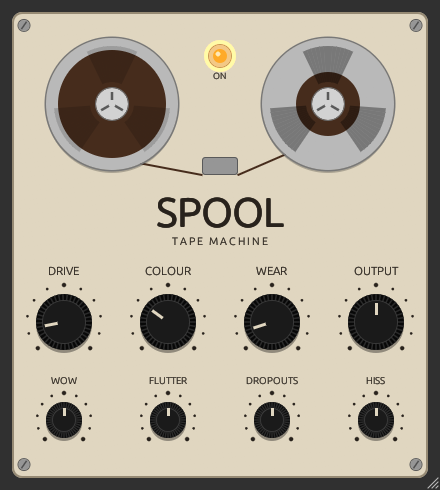
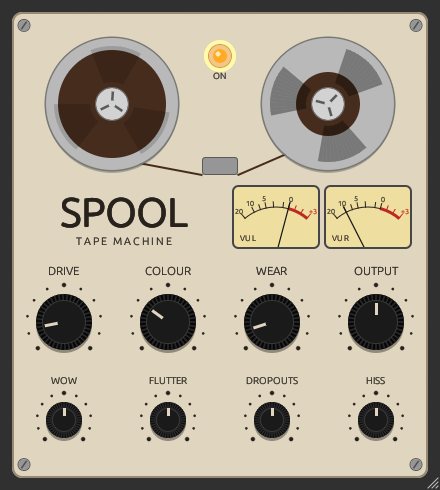
Add VU meters and spinning reels

Changed region(s): [[0.1182, 0.3673, 0.9455, 0.5204], [0.5909, 0.0918, 0.8864, 0.3367], [0.2364, 0.1837, 0.2659, 0.2143]]

diff --git a/src/editor.rs b/src/editor.rs
@@ -1,6 +1,7 @@
-//! Reel-to-reel style editor: a cream faceplate with two reels and four knobs, painted by hand.
+//! Reel-to-reel style editor: a cream faceplate with spinning reels, VU meters and knobs, painted
+//! by hand.
 
-use crate::SpoolParams;
+use crate::{Meters, SpoolParams};
 use nih_plug::prelude::*;
 use nih_plug_egui::egui::{
     self, emath::TSTransform, Align2, Color32, FontId, Painter, Pos2, Rect, Sense, Stroke,
@@ -20,12 +21,27 @@ const INK: Color32 = Color32::from_rgb(40, 34, 28);
 const FACEPLATE: Color32 = Color32::from_rgb(224, 214, 192);
 const TAPE: Color32 = Color32::from_rgb(70, 44, 28);
 
-pub fn create(params: Arc<SpoolParams>) -> Option<Box<dyn Editor>> {
+const REEL_RADIUS: f32 = 66.0;
+const SUPPLY_PACK: f32 = 54.0;
+const TAKEUP_PACK: f32 = 32.0;
+/// Tape speed in design pixels per second; each reel turns at this over its pack radius
+const TAPE_SPEED: f32 = 40.0;
+/// Both reels look the same every third of a turn, so the tape position wraps here without a jump
+const TAPE_WRAP: f32 = TAU / 3.0 * SUPPLY_PACK * TAKEUP_PACK;
+
+/// VU needle swing either side of straight up, in radians
+const VU_SWING: f32 = 0.7;
+const VU_MIN: f32 = -20.0;
+const VU_MAX: f32 = 3.0;
+
+pub fn create(params: Arc<SpoolParams>, meters: Arc<Meters>) -> Option<Box<dyn Editor>> {
     create_egui_editor(
         params.editor_state.clone(),
         (),
         |_, _| {},
         move |ctx, setter, _| {
+            // The meters and reels move without input, so redraw every frame
+            ctx.request_repaint();
             ResizableWindow::new("resize")
                 .min_size(DESIGN.size() / 2.0)
                 .show(ctx, &params.editor_state, |ui| {
@@ -43,14 +59,14 @@ pub fn create(params: Arc<SpoolParams>) -> Option<Box<dyn Editor>> {
                     ctx.set_transform_layer(layer, TSTransform::new(offset, scale));
                     ui.scope_builder(UiBuilder::new().layer_id(layer).max_rect(DESIGN), |ui| {
                         ui.set_clip_rect(DESIGN);
-                        deck(ui, setter, &params);
+                        deck(ui, setter, &params, &meters);
                     });
                 });
         },
     )
 }
 
-fn deck(ui: &Ui, setter: &ParamSetter, params: &SpoolParams) {
+fn deck(ui: &Ui, setter: &ParamSetter, params: &SpoolParams, meters: &Meters) {
     let body = ui.max_rect().shrink(12.0);
     let p = ui.painter();
     p.rect_filled(body, 10.0, FACEPLATE);
@@ -78,10 +94,26 @@ fn deck(ui: &Ui, setter: &ParamSetter, params: &SpoolParams) {
         Vec2::new(36.0, 18.0),
     );
     let tape = Stroke::new(2.0_f32, TAPE);
-    p.line_segment([supply + Vec2::new(0.0, 54.0), head.left_bottom()], tape);
-    p.line_segment([head.right_bottom(), takeup + Vec2::new(0.0, 32.0)], tape);
-    reel(p, supply, 54.0);
-    reel(p, takeup, 32.0);
+    p.line_segment(
+        [supply + Vec2::new(0.0, SUPPLY_PACK), head.left_bottom()],
+        tape,
+    );
+    p.line_segment(
+        [head.right_bottom(), takeup + Vec2::new(0.0, TAKEUP_PACK)],
+        tape,
+    );
+
+    // Tape position, advanced while the host plays. Tape leaves the bottom of the supply reel
+    // heading right, so both reels turn anticlockwise.
+    let travel_id = ui.id().with("tape-travel");
+    let mut travel: f32 = ui.data(|d| d.get_temp(travel_id)).unwrap_or(0.0);
+    if meters.running() {
+        let dt = ui.input(|i| i.stable_dt).min(0.1);
+        travel = (travel + TAPE_SPEED * dt) % TAPE_WRAP;
+        ui.data_mut(|d| d.insert_temp(travel_id, travel));
+    }
+    reel(p, supply, SUPPLY_PACK, -travel / SUPPLY_PACK);
+    reel(p, takeup, TAKEUP_PACK, -travel / TAKEUP_PACK);
     p.rect_filled(head, 3.0, Color32::from_gray(150));
     p.rect_stroke(
         head,
@@ -97,7 +129,7 @@ fn deck(ui: &Ui, setter: &ParamSetter, params: &SpoolParams) {
         Pos2::new(body.center().x, body.top() + 44.0),
     );
 
-    let logo = Pos2::new(body.center().x, body.top() + 200.0);
+    let logo = Pos2::new(body.left() + 112.0, body.top() + 200.0);
     // The default font has no bold weight, so fake one by overdrawing
     for offset in [
         Vec2::ZERO,
@@ -121,6 +153,12 @@ fn deck(ui: &Ui, setter: &ParamSetter, params: &SpoolParams) {
         INK,
     );
 
+    for (i, label) in ["L", "R"].into_iter().enumerate() {
+        let x = body.right() - 152.0 + 92.0 * i as f32;
+        let rect = Rect::from_center_size(Pos2::new(x, body.top() + 205.0), Vec2::new(84.0, 60.0));
+        vu_meter(p, rect, meters.vu(i), label);
+    }
+
     // Main controls, then the trims for each part of Wear underneath
     let rows = [
         (
@@ -142,8 +180,78 @@ fn deck(ui: &Ui, setter: &ParamSetter, params: &SpoolParams) {
     }
 }
 
-fn reel(p: &Painter, center: Pos2, pack: f32) {
-    const RADIUS: f32 = 66.0;
+/// Position of the needle across the scale, 0..1. VU scales are linear in voltage, not dB.
+fn vu_position(db: f32) -> f32 {
+    let gain = |db: f32| 10f32.powf(db / 20.0);
+    // Let it pin a little past +3 like a real meter
+    ((gain(db) - gain(VU_MIN)) / (gain(VU_MAX) - gain(VU_MIN))).clamp(0.0, 1.05)
+}
+
+fn vu_meter(p: &Painter, rect: Rect, db: f32, label: &str) {
+    p.rect_filled(rect, 4.0, Color32::from_rgb(238, 222, 160));
+    // The pivot sits below the face, so the needle only shows its upper part
+    let pivot = Pos2::new(rect.center().x, rect.bottom() + 8.0);
+    let at = |db: f32, r: f32| pivot + dir(-VU_SWING + 2.0 * VU_SWING * vu_position(db)) * r;
+    let red = Color32::from_rgb(190, 40, 30);
+
+    let arc = |from: f32, to: f32| -> Vec<Pos2> {
+        (0..=16)
+            .map(|i| at(from + (to - from) * i as f32 / 16.0, 48.0))
+            .collect()
+    };
+    p.add(egui::Shape::line(
+        arc(VU_MIN, 0.0),
+        Stroke::new(1.0_f32, INK),
+    ));
+    p.add(egui::Shape::line(
+        arc(0.0, VU_MAX),
+        Stroke::new(3.0_f32, red),
+    ));
+    for tick in [-20.0, -10.0, -7.0, -5.0, -3.0, -1.0, 0.0, 1.0, 2.0, 3.0] {
+        let color = if tick > 0.0 { red } else { INK };
+        p.line_segment(
+            [at(tick, 48.0), at(tick, 53.0)],
+            Stroke::new(1.0_f32, color),
+        );
+    }
+    for (tick, text) in [
+        (-20.0, "20"),
+        (-10.0, "10"),
+        (-5.0, "5"),
+        (0.0, "0"),
+        (3.0, "+3"),
+    ] {
+        p.text(
+            at(tick, 58.0),
+            Align2::CENTER_CENTER,
+            text,
+            FontId::proportional(7.0),
+            if tick > 0.0 { red } else { INK },
+        );
+    }
+    p.text(
+        rect.left_bottom() + Vec2::new(6.0, -4.0),
+        Align2::LEFT_BOTTOM,
+        format!("VU {label}"),
+        FontId::proportional(8.0),
+        INK,
+    );
+
+    p.with_clip_rect(rect).line_segment(
+        [pivot, at(db, 54.0)],
+        Stroke::new(1.2_f32, Color32::from_gray(20)),
+    );
+    p.rect_stroke(
+        rect,
+        4.0,
+        Stroke::new(2.0_f32, Color32::from_gray(70)),
+        StrokeKind::Outside,
+    );
+}
+
+/// `angle` turns the reel, clockwise in radians.
+fn reel(p: &Painter, center: Pos2, pack: f32, angle: f32) {
+    const RADIUS: f32 = REEL_RADIUS;
     p.circle_filled(
         center + Vec2::new(0.0, 3.0),
         RADIUS,
@@ -158,7 +266,7 @@ fn reel(p: &Painter, center: Pos2, pack: f32) {
     p.circle_filled(center, pack, TAPE);
     // Three windows in the flange
     for i in 0..3 {
-        let a = i as f32 * TAU / 3.0;
+        let a = angle + i as f32 * TAU / 3.0;
         let window: Vec<Pos2> = (0..=12)
             .map(|j| a - 0.45 + 0.9 * j as f32 / 12.0)
             .flat_map(|b| [(b, RADIUS - 8.0), (b, 22.0)])
@@ -176,7 +284,7 @@ fn reel(p: &Painter, center: Pos2, pack: f32) {
     p.circle_filled(center, 16.0, Color32::from_gray(210));
     p.circle_stroke(center, 16.0, Stroke::new(1.0_f32, Color32::from_gray(110)));
     for i in 0..3 {
-        let a = i as f32 * TAU / 3.0;
+        let a = angle + i as f32 * TAU / 3.0;
         p.line_segment(
             [center + dir(a) * 4.0, center + dir(a) * 12.0],
             Stroke::new(2.5_f32, Color32::from_gray(90)),

diff --git a/src/lib.rs b/src/lib.rs
@@ -12,6 +12,7 @@
 use nih_plug::prelude::*;
 use nih_plug_egui::EguiState;
 use std::f32::consts::{PI, TAU};
+use std::sync::atomic::{AtomicBool, AtomicU32, Ordering};
 use std::sync::Arc;
 
 mod editor;
@@ -48,6 +49,10 @@ const HF_DARK: f32 = 5e3;
 const HF_WORN: f32 = 0.4;
 /// Hiss level at full wear, -40 dB
 const HISS: f32 = 0.01;
+
+// VU meter: averaging time constant (a one-pole close to the 300 ms VU rise) and 0 VU in dBFS RMS
+const VU_TAU: f32 = 0.065;
+const VU_REF_DB: f32 = -18.0;
 
 /// Bypass crossfade time in seconds, long enough to avoid clicks
 const BYPASS_FADE: f32 = 0.01;
@@ -348,8 +353,35 @@ impl Channel {
     }
 }
 
+/// Output levels and transport state handed from the audio thread to the editor.
+#[derive(Default)]
+struct Meters {
+    /// Mean square output per channel, as `f32` bits
+    levels: [AtomicU32; 2],
+    /// Host transport playing and not bypassed, so the reels turn
+    running: AtomicBool,
+}
+
+impl Meters {
+    /// VU reading of a channel in dB
+    fn vu(&self, channel: usize) -> f32 {
+        vu_db(f32::from_bits(self.levels[channel].load(Ordering::Relaxed)))
+    }
+
+    fn running(&self) -> bool {
+        self.running.load(Ordering::Relaxed)
+    }
+}
+
+fn vu_db(mean_square: f32) -> f32 {
+    10.0 * mean_square.max(1e-12).log10() - VU_REF_DB
+}
+
 struct Spool {
     params: Arc<SpoolParams>,
+    meters: Arc<Meters>,
+    /// Running mean square of each output channel
+    vu: [f32; 2],
     sample_rate: f32,
     /// Base delay in whole samples, so the dry read is exact
     base_delay: usize,
@@ -445,6 +477,8 @@ impl Default for Spool {
     fn default() -> Self {
         Self {
             params: Arc::new(SpoolParams::default()),
+            meters: Arc::default(),
+            vu: [0.0; 2],
             sample_rate: 48000.0,
             base_delay: 0,
             transport: Transport::default(),
@@ -484,7 +518,7 @@ impl Plugin for Spool {
     }
 
     fn editor(&mut self, _async_executor: AsyncExecutor<Self>) -> Option<Box<dyn Editor>> {
-        editor::create(self.params.clone())
+        editor::create(self.params.clone(), self.meters.clone())
     }
 
     fn initialize(
@@ -515,6 +549,7 @@ impl Plugin for Spool {
             ch.delay.buf.fill(0.0);
         }
         self.transport = Transport::default();
+        self.vu = [0.0; 2];
         self.wet = if self.params.bypass.value() { 0.0 } else { 1.0 };
     }
 
@@ -522,9 +557,10 @@ impl Plugin for Spool {
         &mut self,
         buffer: &mut Buffer,
         _aux: &mut AuxiliaryBuffers,
-        _context: &mut impl ProcessContext<Self>,
+        context: &mut impl ProcessContext<Self>,
     ) -> ProcessStatus {
         let fs = self.sample_rate;
+        let vu_k = 1.0 - (-1.0 / (VU_TAU * fs)).exp();
         let base = self.base_delay as f32;
         let fade_step = 1.0 / (BYPASS_FADE * fs);
 
@@ -548,14 +584,29 @@ impl Plugin for Spool {
             self.wet += (target - self.wet).clamp(-fade_step, fade_step);
 
             // Keep processing while bypassed so the tape path stays warm for a click-free return
-            for (sample, channel) in frame.iter_mut().zip(self.channels.iter_mut()) {
+            for ((sample, channel), vu) in frame
+                .iter_mut()
+                .zip(self.channels.iter_mut())
+                .zip(self.vu.iter_mut())
+            {
                 channel.delay.push(*sample);
                 let dry = channel.delay.read(base);
                 let tape = channel.delay.read(delay);
                 let noise = self.transport.noise();
                 let wet = channel.process(tape, &coeffs, noise) * dropout * output;
                 *sample = dry + (wet - dry) * self.wet;
+                *vu += (*sample * *sample - *vu) * vu_k;
             }
+        }
+
+        if self.params.editor_state.is_open() {
+            // Mono shows the one channel on both meters
+            let right = if buffer.channels() > 1 { 1 } else { 0 };
+            for (meter, ch) in self.meters.levels.iter().zip([0, right]) {
+                meter.store(self.vu[ch].to_bits(), Ordering::Relaxed);
+            }
+            let running = context.transport().playing && !self.params.bypass.value();
+            self.meters.running.store(running, Ordering::Relaxed);
         }
 
         ProcessStatus::Normal
@@ -734,6 +785,19 @@ mod tests {
         // Never closer than 1 sample or past the buffer's 2 * base
         assert!(hi - lo > 0.016 * fs, "swing {lo}..{hi}");
         assert!(lo >= 1.0 && hi + 2.0 < 2.0 * base, "swing {lo}..{hi}");
+    }
+
+    #[test]
+    fn vu_reads_zero_at_reference_level() {
+        // A sine at -18 dBFS RMS, averaged like process() does
+        let fs = 48000.0;
+        let amp = util::db_to_gain(VU_REF_DB) * 2f32.sqrt();
+        let k = 1.0 - (-1.0 / (VU_TAU * fs)).exp();
+        let ms = (0..fs as usize).fold(0.0, |ms, i| {
+            let x = amp * (2.0 * PI * 1000.0 * i as f32 / fs).sin();
+            ms + (x * x - ms) * k
+        });
+        assert!(vu_db(ms).abs() < 0.2, "{} VU", vu_db(ms));
     }
 
     #[test]

diff --git a/CLAUDE.md b/CLAUDE.md
@@ -34,8 +34,12 @@ cargo clippy --release --lib
   the tests, so change the mapping there only.
 - Wear is mostly squared (wow depth, hiss) or cubed (dropout rate) so low settings stay subtle for mastering.
 - GUI lives in `src/editor.rs`: a hand-painted reel-to-reel faceplate. `knob()`, `screw()` and window scaling
-  come from Rodent (see `../rodent/CLAUDE.md`). The pilot lamp is the bypass button. Reels are static.
+  come from Rodent (see `../rodent/CLAUDE.md`). The pilot lamp is the bypass button.
   `knob()` takes a radius: 28 for the main row, 18 for the Wear trims row.
+- `Meters` (in `lib.rs`, an `Arc` shared with the editor) carries each channel's mean-square output as `AtomicU32` bits
+  and whether the reels should run (host playing and not bypassed). `process()` only stores them while the editor is
+  open. The editor redraws every frame, keeps the tape position in egui memory and turns each reel by
+  `travel / pack radius`, wrapping at `TAPE_WRAP` so the angle never jumps. VU needles map linear voltage, not dB.
 - README screenshot: same standalone recipe as `../wailer/CLAUDE.md` (match the `"Spool": ()` window).
 - The audio thread must not allocate (`assert_process_allocs` is enabled).
 - `CLAP_ID` and `VST3_CLASS_ID` must never change, or saved Bitwig projects lose the plugin.

diff --git a/README.md b/README.md
@@ -17,6 +17,9 @@ your master, or push it for all-out lofi wonkiness.
 | Wow, Flutter, Dropouts, Hiss | 0–200% | Trims for each part of Wear (default 100%). A part behaves as if Wear were Wear × trim: turn one down to leave that part out, or up for more of it at low Wear. 200% goes past Wear's maximum (up to 4x the wow) |
 | Lamp    | Bypass (lit when the tape is running) |
 
+The VU meters show the output level per channel, with 0 VU at −18 dBFS RMS. The reels spin while
+your DAW is playing.
+
 Knobs: drag or scroll to turn, hold Shift for fine control, double-click to reset.
 Drag the bottom-right corner to resize the window. Spool reports 25 ms of latency for its wow and
 flutter delay line.

diff --git a/CHANGELOG.md b/CHANGELOG.md
@@ -6,6 +6,12 @@ All notable changes to Spool are documented here. The format follows
 
 ## [Unreleased]
 
+### Added
+- VU meters for the left and right output, calibrated to 0 VU = −18 dBFS RMS. A mono instance
+  shows its one channel on both.
+- The reels spin while the host is playing (and stop when Spool is bypassed), the near-empty
+  take-up reel faster than the full supply reel.
+
 ## [0.2.0] - 2026-10-26
 
 ### Added
